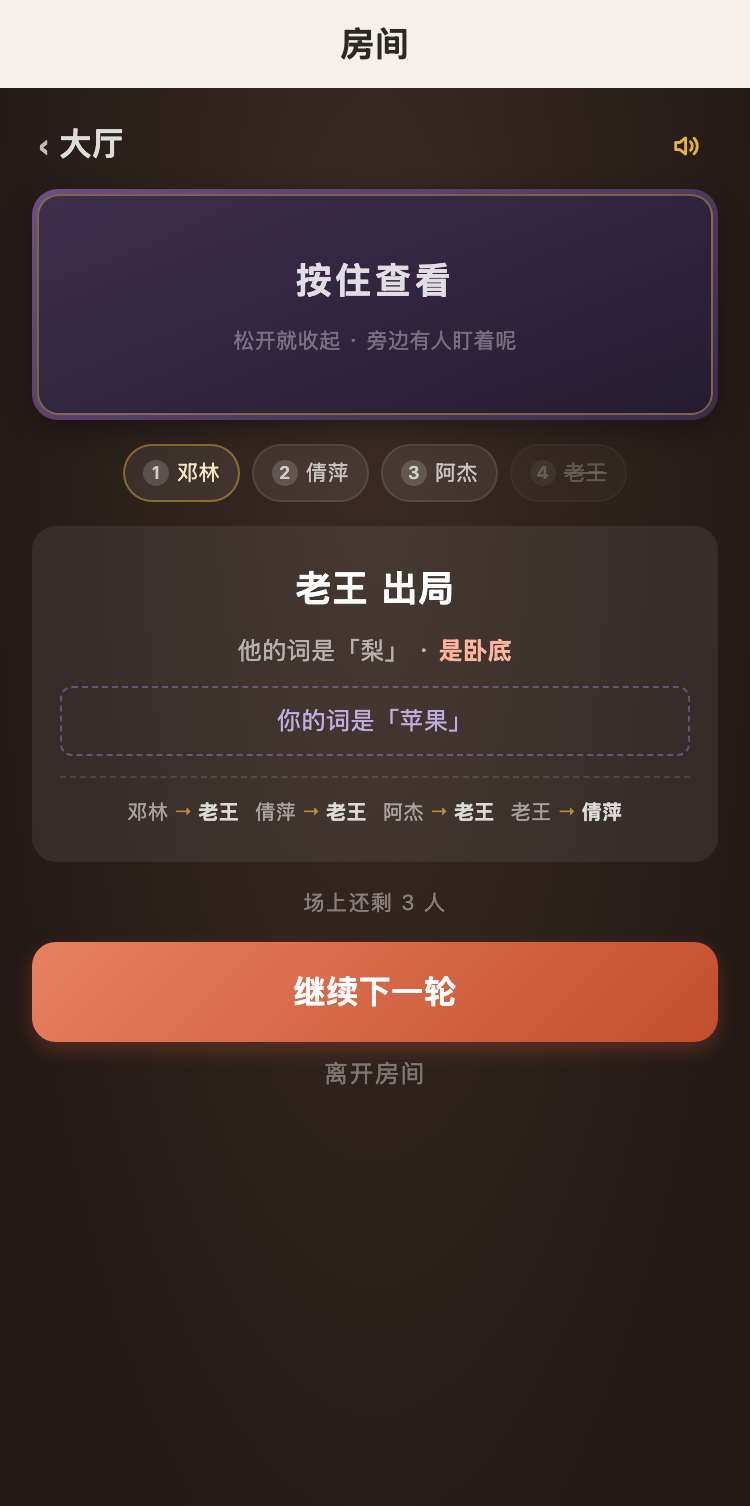
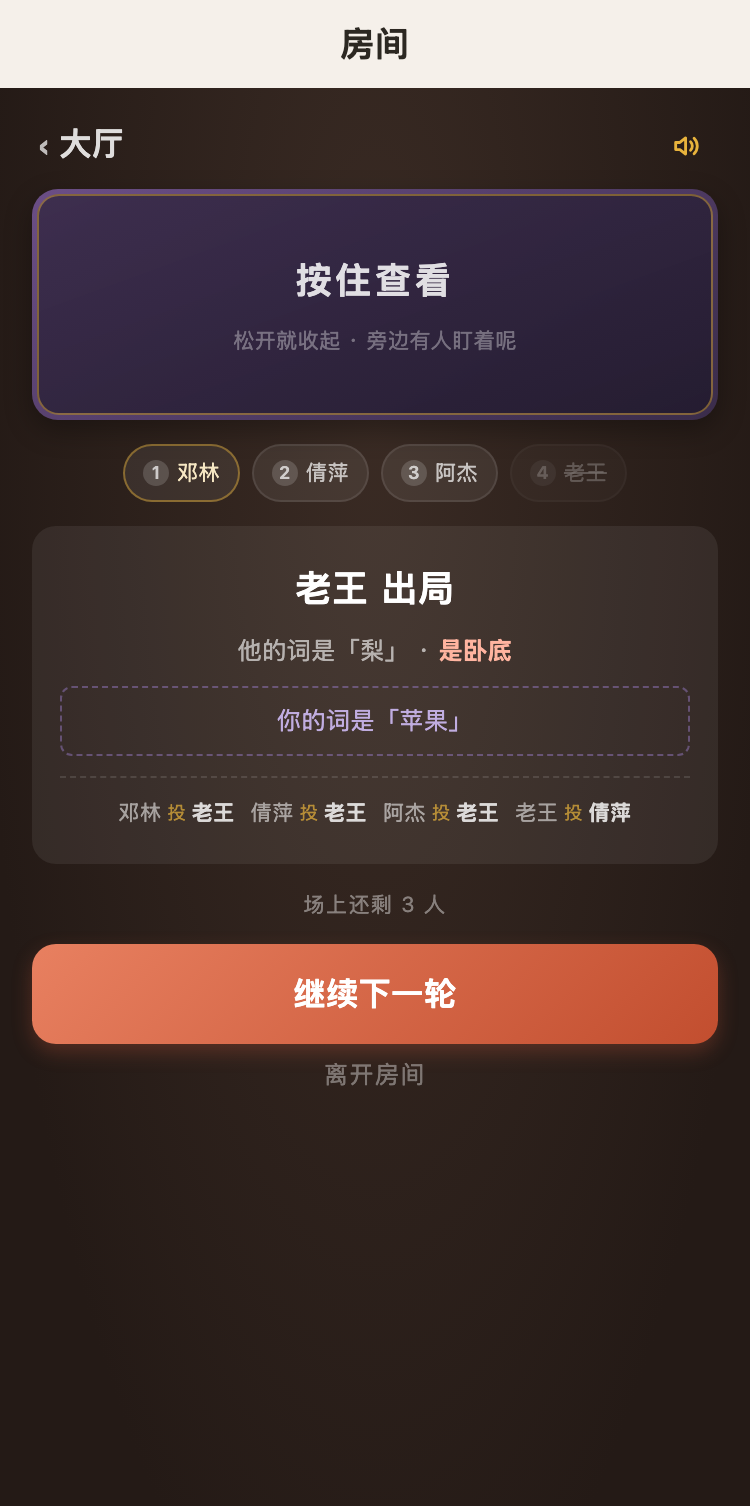
feat(3.9.50): 结算行与票型逐条入场（动画编排）
工作室级 UI 的一个廉价但有效的标志：元素按顺序出现，而不是同时冒出来。
排行榜尤其需要 —— 从第 2 名往下逐条落，最后停在最后一名，
这个顺序本身就在"读"排名。票型同理（谁投了谁，按发生顺序读最自然）。

⚠ 只有**结算页**能这么用：它只在 over 时渲染一次，数据不变时 wx:for
不会重建节点，animation 不会重播。大厅/玩家列表那种每 1.5 秒刷新一次的
列表绝对不能用 —— CSS animation 会跟着节点重建一遍遍重播
（这个坑 AGENTS.md 里记过，是当年"骰子每 1.5 秒飞进来一次"的根因）。

diff --git a/outputs/ui/room-dice8.html b/outputs/ui/room-dice8.html
@@ -587,21 +587,42 @@ view, text, button, input, textarea { box-sizing: border-box }
 }
 
 .ws-pointer {
-  position: absolute; left: 50%; top: -3px;
-  margin-left: -9px;
+  position: absolute; left: 50%; top: -5px;
+  margin-left: -10px;
   width: 0; height: 0;
-  border-left: 9px solid transparent;
-  border-right: 9px solid transparent;
-  border-top: 17px solid #E8B33C;
-  z-index: 5;
-  filter: drop-shadow(0 1.5px 3px rgba(0,0,0,.6));
+  border-left: 10px solid transparent;
+  border-right: 10px solid transparent;
+  border-top: 20px solid #7A5A18;          
+  z-index: 6;
+  filter: drop-shadow(0 2px 4px rgba(0,0,0,.65));
+}
+.ws-pointer::before {
+  content: ''; position: absolute;
+  left: -8px; top: -20px;
+  width: 0; height: 0;
+  border-left: 8px solid transparent;
+  border-right: 8px solid transparent;
+  border-top: 16.5px solid #E8B33C;          
+}
+.ws-pointer::after {
+  content: ''; position: absolute;
+  left: -3.5px; top: -19px;
+  width: 0; height: 0;
+  border-left: 3.5px solid transparent;
+  border-right: 3.5px solid transparent;
+  border-top: 12px solid rgba(255, 244, 214, .78);   
 }
 .ws-disc {
   position: absolute; left: 0; top: 0;
   width: 280px; height: 280px;
   border-radius: 50%;
   overflow: hidden;
-  box-shadow: 0 0 0 4px rgba(232,179,60,.35), 0 7px 20px rgba(0,0,0,.5);
+  box-shadow:
+    0 0 0 1.5px rgba(122, 90, 24, .5),        
+    0 0 0 4.5px rgba(232, 179, 60, .30),      
+    0 0 0 5.5px rgba(122, 90, 24, .35),      
+    inset 0 0 20px rgba(0, 0, 0, .28),      
+    0 8px 22px rgba(0, 0, 0, .55);
   
   transition: transform 2.7s cubic-bezier(.4, 0, .2, 1);
 }
@@ -609,19 +630,30 @@ view, text, button, input, textarea { box-sizing: border-box }
   position: absolute;
   transform: translate(-50%, -50%);
   font-size: 10.5px; color: #fff; font-weight: 600;
+  
   white-space: nowrap;
   text-shadow: 0 1px 3px rgba(0,0,0,.7);
   pointer-events: none;
 }
+
+.ws-lbl.small { font-size: 9px; letter-spacing: 0 }
+
 .ws-hub {
   position: absolute; left: 50%; top: 50%;
   width: 48px; height: 48px; margin: -24px 0 0 -24px;
   border-radius: 50%;
-  background: linear-gradient(145deg, #F6E7C3, #D9B96A);
+  background: linear-gradient(160deg, #FFF3D6 0%, #F0D79A 42%, #C9A65A 100%);
   color: #4A3630; font-size: 16px; font-weight: 700;
   display: flex; align-items: center; justify-content: center;
-  box-shadow: 0 3px 9px rgba(0,0,0,.5);
-  z-index: 4;
+  letter-spacing: 1px;
+  box-shadow:
+    0 0 0 2px rgba(122, 90, 24, .55),      
+    inset 0 1.5px 2.5px rgba(255, 255, 255, .85),  
+    inset 0 -2.5px 4px rgba(122, 90, 24, .35),   
+    0 4px 11px rgba(0, 0, 0, .55);
+  z-index: 5;
+  transition: transform .12s;
+  text-shadow: 0 0.5px 0 rgba(255,255,255,.6);
 }
 .ws-result {
   text-align: center;
@@ -752,8 +784,17 @@ view, text, button, input, textarea { box-sizing: border-box }
 .oh-total {
   position: relative;
   margin-top: 6px;
-  font-size: 15px; font-weight: 700; color: #F6E7C3;
+  font-size: 16px; font-weight: 700; color: #F6E7C3;
 }
+
+
+.pkr-face {
+  
+  width: 28px; height: 37.5px;
+  border-radius: 3px;
+  flex: none;
+}
+.pkr-face.out { opacity: .55; filter: saturate(.6) }
 
 
 .center-box { display: flex; flex-direction: column; align-items: center; padding: 20px 5px }
@@ -777,10 +818,17 @@ view, text, button, input, textarea { box-sizing: border-box }
   background: rgba(255,255,255,.06);
   border-radius: var(--r-2); padding: 12px;
 }
+
 .rv-row {
   display: flex; align-items: center; gap: 8px;
   padding: 7px 0;
   border-bottom: 1px solid rgba(255,255,255,.06);
+  animation: rvIn .34s cubic-bezier(0, 0, .2, 1) backwards;
+  animation-delay: calc(var(--i, 0) * 55ms);
+}
+@keyframes rvIn {
+  0%   { opacity: 0; transform: translateY(5px) }
+  100% { opacity: 1; transform: translateY(0) }
 }
 .rv-row:last-child { border-bottom: none }
 .rv-name { font-size: 12px; color: rgba(255,255,255,.6); min-width: 55px }
@@ -1462,6 +1510,29 @@ view, text, button, input, textarea { box-sizing: border-box }
 .uw-good { color: #9AD3A8; font-weight: 700 }
 .uw-otie { font-size: 10.5px; color: rgba(255,255,255,.38); margin-top: 5px }
 
+.uw-alive {
+  text-align: center; margin-top: 8px;
+  font-size: 10.5px; color: rgba(255,255,255,.42); letter-spacing: 0.5px;
+}
+
+
+.uw-ballots {
+  margin-top: 10px;
+  padding-top: 9px;
+  border-top: 1px dashed rgba(255,255,255,.12);
+  display: flex; flex-wrap: wrap; justify-content: center; gap: 5px 8px;
+}
+.uw-ballot {
+  display: flex; align-items: center; gap: 3px;
+  font-size: 10.5px;
+  
+  animation: rvIn .3s cubic-bezier(0, 0, .2, 1) backwards;
+  animation-delay: calc(var(--i, 0) * 40ms);
+}
+.ub-by { color: rgba(255,255,255,.55) }
+.ub-arrow { color: rgba(232,179,60,.7); font-size: 9px }
+.ub-to { color: rgba(255,255,255,.82); font-weight: 600 }
+
 
 .uw-reveal {
   background: rgba(255,255,255,.06);
@@ -1945,43 +2016,43 @@ view, text, button, input, textarea { box-sizing: border-box }
       </div>
 
       <div class="revealbox">
-        <div class="rv-row">
+        <div class="rv-row" style="--i:0">
           <span class="rv-name">老王</span>
           <div class="dicebox mini">
             <img class="die-img" src="file:///Users/meihaoshidai/Downloads/邓林work/个人项目/小程序/miniprogram/images/dice/dice-4.png" data-mode="aspectFit" style="object-fit:contain;"><img class="die-img" src="file:///Users/meihaoshidai/Downloads/邓林work/个人项目/小程序/miniprogram/images/dice/dice-4.png" data-mode="aspectFit" style="object-fit:contain;"><img class="die-img" src="file:///Users/meihaoshidai/Downloads/邓林work/个人项目/小程序/miniprogram/images/dice/dice-1.png" data-mode="aspectFit" style="object-fit:contain;"><img class="die-img" src="file:///Users/meihaoshidai/Downloads/邓林work/个人项目/小程序/miniprogram/images/dice/dice-2.png" data-mode="aspectFit" style="object-fit:contain;"><img class="die-img" src="file:///Users/meihaoshidai/Downloads/邓林work/个人项目/小程序/miniprogram/images/dice/dice-1.png" data-mode="aspectFit" style="object-fit:contain;">
           </div>
           <span class="rv-total">27 点</span>
-        </div><div class="rv-row">
+        </div><div class="rv-row" style="--i:1">
           <span class="rv-name">阿强</span>
           <div class="dicebox mini">
             <img class="die-img" src="file:///Users/meihaoshidai/Downloads/邓林work/个人项目/小程序/miniprogram/images/dice/dice-1.png" data-mode="aspectFit" style="object-fit:contain;"><img class="die-img" src="file:///Users/meihaoshidai/Downloads/邓林work/个人项目/小程序/miniprogram/images/dice/dice-1.png" data-mode="aspectFit" style="object-fit:contain;"><img class="die-img" src="file:///Users/meihaoshidai/Downloads/邓林work/个人项目/小程序/miniprogram/images/dice/dice-1.png" data-mode="aspectFit" style="object-fit:contain;"><img class="die-img" src="file:///Users/meihaoshidai/Downloads/邓林work/个人项目/小程序/miniprogram/images/dice/dice-5.png" data-mode="aspectFit" style="object-fit:contain;"><img class="die-img" src="file:///Users/meihaoshidai/Downloads/邓林work/个人项目/小程序/miniprogram/images/dice/dice-1.png" data-mode="aspectFit" style="object-fit:contain;">
           </div>
           <span class="rv-total">23 点</span>
-        </div><div class="rv-row">
+        </div><div class="rv-row" style="--i:2">
           <span class="rv-name">阿杰</span>
           <div class="dicebox mini">
             <img class="die-img" src="file:///Users/meihaoshidai/Downloads/邓林work/个人项目/小程序/miniprogram/images/dice/dice-1.png" data-mode="aspectFit" style="object-fit:contain;"><img class="die-img" src="file:///Users/meihaoshidai/Downloads/邓林work/个人项目/小程序/miniprogram/images/dice/dice-5.png" data-mode="aspectFit" style="object-fit:contain;"><img class="die-img" src="file:///Users/meihaoshidai/Downloads/邓林work/个人项目/小程序/miniprogram/images/dice/dice-5.png" data-mode="aspectFit" style="object-fit:contain;"><img class="die-img" src="file:///Users/meihaoshidai/Downloads/邓林work/个人项目/小程序/miniprogram/images/dice/dice-1.png" data-mode="aspectFit" style="object-fit:contain;"><img class="die-img" src="file:///Users/meihaoshidai/Downloads/邓林work/个人项目/小程序/miniprogram/images/dice/dice-3.png" data-mode="aspectFit" style="object-fit:contain;">
           </div>
           <span class="rv-total">20 点</span>
-        </div><div class="rv-row">
+        </div><div class="rv-row" style="--i:3">
           <span class="rv-name">大刘</span>
           <div class="dicebox mini">
             <img class="die-img" src="file:///Users/meihaoshidai/Downloads/邓林work/个人项目/小程序/miniprogram/images/dice/dice-4.png" data-mode="aspectFit" style="object-fit:contain;"><img class="die-img" src="file:///Users/meihaoshidai/Downloads/邓林work/个人项目/小程序/miniprogram/images/dice/dice-2.png" data-mode="aspectFit" style="object-fit:contain;"><img class="die-img" src="file:///Users/meihaoshidai/Downloads/邓林work/个人项目/小程序/miniprogram/images/dice/dice-5.png" data-mode="aspectFit" style="object-fit:contain;"><img class="die-img" src="file:///Users/meihaoshidai/Downloads/邓林work/个人项目/小程序/miniprogram/images/dice/dice-4.png" data-mode="aspectFit" style="object-fit:contain;"><img class="die-img" src="file:///Users/meihaoshidai/Downloads/邓林work/个人项目/小程序/miniprogram/images/dice/dice-3.png" data-mode="aspectFit" style="object-fit:contain;">
           </div>
           <span class="rv-total">16 点</span>
-        </div><div class="rv-row">
+        </div><div class="rv-row" style="--i:4">
           <span class="rv-name">倩萍</span>
           <div class="dicebox mini">
             <img class="die-img" src="file:///Users/meihaoshidai/Downloads/邓林work/个人项目/小程序/miniprogram/images/dice/dice-4.png" data-mode="aspectFit" style="object-fit:contain;"><img class="die-img" src="file:///Users/meihaoshidai/Downloads/邓林work/个人项目/小程序/miniprogram/images/dice/dice-6.png" data-mode="aspectFit" style="object-fit:contain;"><img class="die-img" src="file:///Users/meihaoshidai/Downloads/邓林work/个人项目/小程序/miniprogram/images/dice/dice-3.png" data-mode="aspectFit" style="object-fit:contain;"><img class="die-img" src="file:///Users/meihaoshidai/Downloads/邓林work/个人项目/小程序/miniprogram/images/dice/dice-6.png" data-mode="aspectFit" style="object-fit:contain;"><img class="die-img" src="file:///Users/meihaoshidai/Downloads/邓林work/个人项目/小程序/miniprogram/images/dice/dice-5.png" data-mode="aspectFit" style="object-fit:contain;">
           </div>
           <span class="rv-total">13 点</span>
-        </div><div class="rv-row">
+        </div><div class="rv-row" style="--i:5">
           <span class="rv-name">小美</span>
           <div class="dicebox mini">
             <img class="die-img" src="file:///Users/meihaoshidai/Downloads/邓林work/个人项目/小程序/miniprogram/images/dice/dice-1.png" data-mode="aspectFit" style="object-fit:contain;"><img class="die-img" src="file:///Users/meihaoshidai/Downloads/邓林work/个人项目/小程序/miniprogram/images/dice/dice-3.png" data-mode="aspectFit" style="object-fit:contain;"><img class="die-img" src="file:///Users/meihaoshidai/Downloads/邓林work/个人项目/小程序/miniprogram/images/dice/dice-3.png" data-mode="aspectFit" style="object-fit:contain;"><img class="die-img" src="file:///Users/meihaoshidai/Downloads/邓林work/个人项目/小程序/miniprogram/images/dice/dice-3.png" data-mode="aspectFit" style="object-fit:contain;"><img class="die-img" src="file:///Users/meihaoshidai/Downloads/邓林work/个人项目/小程序/miniprogram/images/dice/dice-5.png" data-mode="aspectFit" style="object-fit:contain;">
           </div>
           <span class="rv-total">9 点</span>
-        </div><div class="rv-row">
+        </div><div class="rv-row" style="--i:6">
           <span class="rv-name">邓林</span>
           <div class="dicebox mini">
             <img class="die-img" src="file:///Users/meihaoshidai/Downloads/邓林work/个人项目/小程序/miniprogram/images/dice/dice-1.png" data-mode="aspectFit" style="object-fit:contain;"><img class="die-img" src="file:///Users/meihaoshidai/Downloads/邓林work/个人项目/小程序/miniprogram/images/dice/dice-1.png" data-mode="aspectFit" style="object-fit:contain;"><img class="die-img" src="file:///Users/meihaoshidai/Downloads/邓林work/个人项目/小程序/miniprogram/images/dice/dice-1.png" data-mode="aspectFit" style="object-fit:contain;"><img class="die-img" src="file:///Users/meihaoshidai/Downloads/邓林work/个人项目/小程序/miniprogram/images/dice/dice-5.png" data-mode="aspectFit" style="object-fit:contain;"><img class="die-img" src="file:///Users/meihaoshidai/Downloads/邓林work/个人项目/小程序/miniprogram/images/dice/dice-1.png" data-mode="aspectFit" style="object-fit:contain;">

diff --git a/outputs/ui/room-uwResult.html b/outputs/ui/room-uwResult.html
@@ -784,7 +784,7 @@ view, text, button, input, textarea { box-sizing: border-box }
 .oh-total {
   position: relative;
   margin-top: 6px;
-  font-size: 15px; font-weight: 700; color: #F6E7C3;
+  font-size: 16px; font-weight: 700; color: #F6E7C3;
 }
 
 
@@ -818,10 +818,17 @@ view, text, button, input, textarea { box-sizing: border-box }
   background: rgba(255,255,255,.06);
   border-radius: var(--r-2); padding: 12px;
 }
+
 .rv-row {
   display: flex; align-items: center; gap: 8px;
   padding: 7px 0;
   border-bottom: 1px solid rgba(255,255,255,.06);
+  animation: rvIn .34s cubic-bezier(0, 0, .2, 1) backwards;
+  animation-delay: calc(var(--i, 0) * 55ms);
+}
+@keyframes rvIn {
+  0%   { opacity: 0; transform: translateY(5px) }
+  100% { opacity: 1; transform: translateY(0) }
 }
 .rv-row:last-child { border-bottom: none }
 .rv-name { font-size: 12px; color: rgba(255,255,255,.6); min-width: 55px }
@@ -1517,7 +1524,10 @@ view, text, button, input, textarea { box-sizing: border-box }
 }
 .uw-ballot {
   display: flex; align-items: center; gap: 3px;
-  font-size: 10px;
+  font-size: 10.5px;
+  
+  animation: rvIn .3s cubic-bezier(0, 0, .2, 1) backwards;
+  animation-delay: calc(var(--i, 0) * 40ms);
 }
 .ub-by { color: rgba(255,255,255,.55) }
 .ub-arrow { color: rgba(232,179,60,.7); font-size: 9px }
@@ -2032,21 +2042,21 @@ view, text, button, input, textarea { box-sizing: border-box }
 
           
           <div class="uw-cmp">你的词是「苹果」</div><div class="uw-ballots">
-            <div class="uw-ballot">
+            <div class="uw-ballot" style="--i:0">
               <span class="ub-by">邓林</span>
-              <span class="ub-arrow">→</span>
+              <span class="ub-arrow">投</span>
               <span class="ub-to">老王</span>
-            </div><div class="uw-ballot">
+            </div><div class="uw-ballot" style="--i:1">
               <span class="ub-by">倩萍</span>
-              <span class="ub-arrow">→</span>
+              <span class="ub-arrow">投</span>
               <span class="ub-to">老王</span>
-            </div><div class="uw-ballot">
+            </div><div class="uw-ballot" style="--i:2">
               <span class="ub-by">阿杰</span>
-              <span class="ub-arrow">→</span>
+              <span class="ub-arrow">投</span>
               <span class="ub-to">老王</span>
-            </div><div class="uw-ballot">
+            </div><div class="uw-ballot" style="--i:3">
               <span class="ub-by">老王</span>
-              <span class="ub-arrow">→</span>
+              <span class="ub-arrow">投</span>
               <span class="ub-to">倩萍</span>
             </div>
           </div></div><div class="uw-alive">场上还剩 3 人</div><div class="uw-btn">继续下一轮</div><div class="textbtn">离开房间</div>
